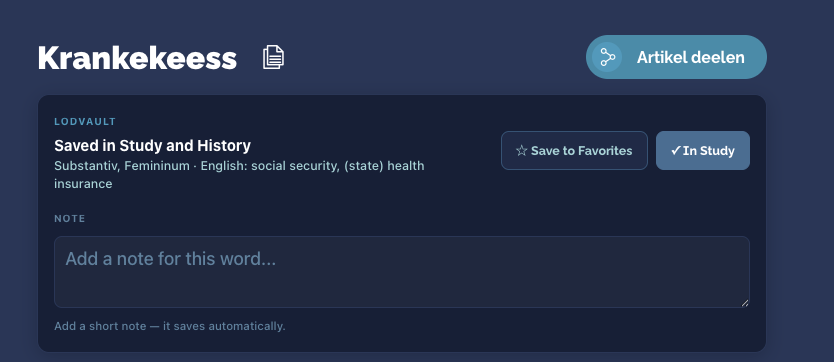
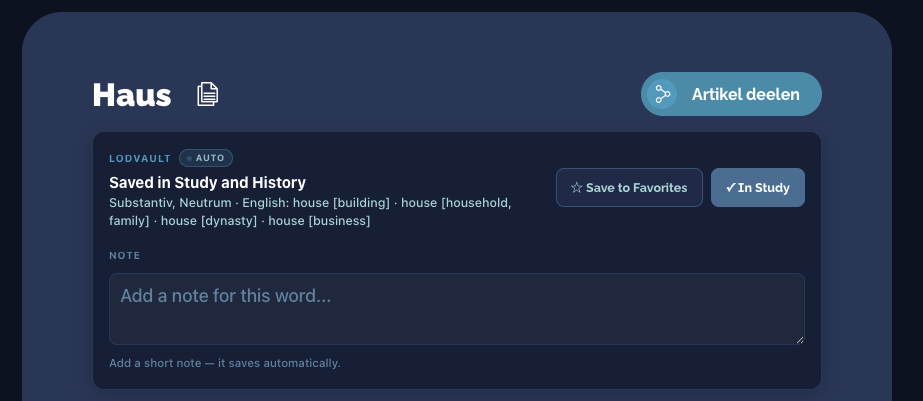
Update README screenshots and layout

Changed region(s): [[0.0, 0.0, 1.0, 1.0], [0.3118, 0.1215, 0.3429, 0.2127]]

diff --git a/README.md b/README.md
@@ -17,20 +17,27 @@
 
 ---
 
-![LODVault screenshot](lodvault-screenshot.png)
+### Popup
 
-## Screenshots
+<img src="docs/screenshots/popup.png" width="380" alt="LODVault popup showing auto mode, sync language selector, and current word" />
 
-<table>
-  <tr>
-    <td width="50%"><img src="docs/screenshots/page-banner.png" alt="LODVault banner injected into a lod.lu article page" /></td>
-    <td width="50%"><img src="docs/screenshots/preview-page.png" alt="LODVault preview page showing saved words and filters" /></td>
-  </tr>
-  <tr>
-    <td><strong>Inline article banner</strong><br/>Save the current word, see translations, and add notes without leaving lod.lu.</td>
-    <td><strong>Preview page</strong><br/>Browse your saved words in a searchable full-page view.</td>
-  </tr>
-</table>
+The popup shows your saved word count, lets you toggle **Auto mode**, pick **sync languages**, and manage the word you are currently reading.
+
+---
+
+### Article banner
+
+<img src="docs/screenshots/page-banner.png" width="640" alt="LODVault banner injected under a lod.lu article heading" />
+
+A banner is injected directly under the article heading on every `lod.lu/artikel/…` page. Save to Favorites or Study, see the translation summary, and add a personal note — without leaving the dictionary.
+
+---
+
+### Preview page
+
+<img src="docs/screenshots/preview-page.png" width="780" alt="LODVault preview page listing saved words with translations and tags" />
+
+The preview page lists all your saved words with their translations, POS tags, and list membership. Filter by language, search, or download as a standalone HTML file.
 
 ---
 
